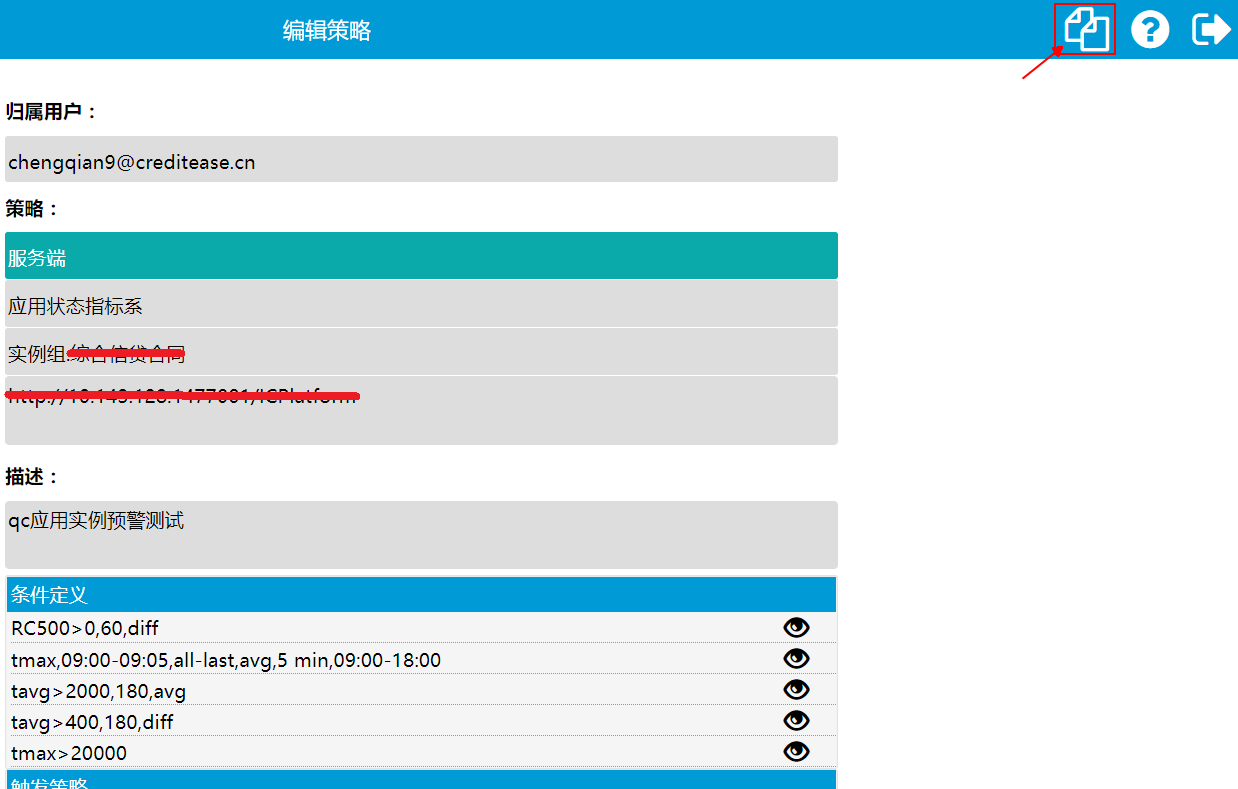
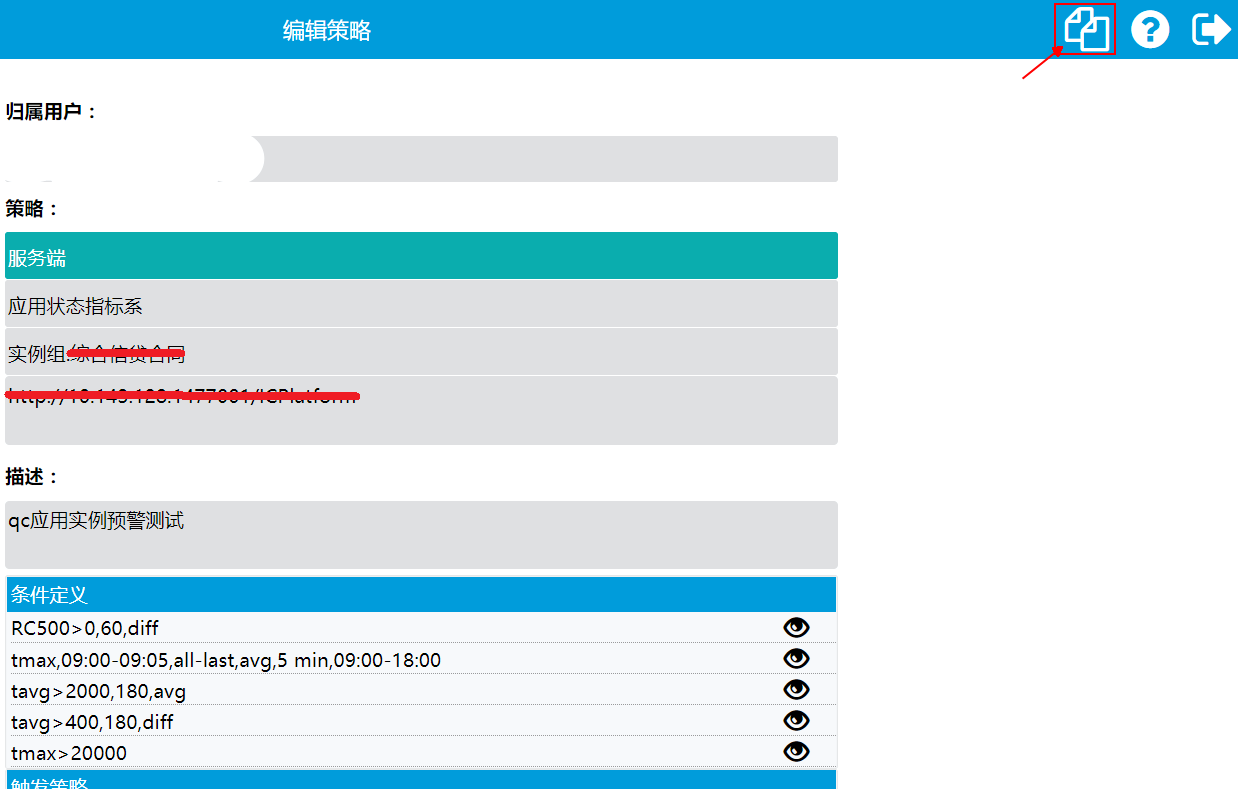
修改图片去除敏感信息

Changed region(s): [[0.0, 0.1521, 0.2149, 0.2433]]

diff --git a/uavdoc_useroperation/28.html b/uavdoc_useroperation/28.html
@@ -1908,7 +1908,7 @@
 <li>&#x5B9E;&#x4F8B;&#x540D;&amp;&#x7B56;&#x7565;&#x63CF;&#x8FF0;&#xFF1A;&#x76F4;&#x63A5;&#x5728;&#x8F93;&#x5165;&#x6846;&#x5185;&#x4FEE;&#x6539;&#x3002;</li>
 <li>&#x89E6;&#x53D1;&#x6761;&#x4EF6;&amp;&#x89E6;&#x53D1;&#x52A8;&#x4F5C;&#xFF1A;&#x70B9;&#x51FB;<img src="assets/28_12.png" alt="">&#x589E;&#x52A0;&#x6761;&#x4EF6;(&#x52A8;&#x4F5C;)&#xFF0C;&#x70B9;&#x51FB;<img src="assets/28_11.png" alt="">&#x4FEE;&#x6539;&#x6761;&#x4EF6;(&#x52A8;&#x4F5C;)&#xFF0C;&#x70B9;&#x51FB;<img src="assets/28_13.png" alt="">&#x5220;&#x9664;&#x6761;&#x4EF6;(&#x52A8;&#x4F5C;)&#x3002;</li>
 </ul>
-<h3 id="&#x4FEE;&#x6539;">&#x4FEE;&#x6539; </h3>
+<h3 id="&#x590D;&#x5236;">&#x590D;&#x5236;</h3>
 <p>&#x7528;&#x6237;&#x70B9;&#x51FB;&#x4EFB;&#x610F;&#x9700;&#x8981;&#x590D;&#x5236;&#x7684;&#x9884;&#x8B66;&#x7B56;&#x7565;<a href="#&#x9884;&#x8B66;&#x7B56;&#x7565;&#x6982;&#x89C8;&#x680F;">&#x9884;&#x8B66;&#x7B56;&#x7565;&#x6982;&#x89C8;</a>&#x8FDB;&#x5165;&#x9884;&#x8B66;&#x4FEE;&#x6539;/&#x67E5;&#x770B;&#x754C;&#x9762;&#x3002;</p>
 <p><img src="assets/28_26.png" alt=""></p>
 <p>&#x70B9;&#x51FB;&#x53F3;&#x4E0A;&#x89D2;&#x590D;&#x5236;&#x6309;&#x94AE;&#xFF0C;&#x8FDB;&#x5165;&#x7F16;&#x8F91;&#x590D;&#x5236;&#x7B56;&#x7565;&#x9875;&#x9762;&#xFF0C;&#x586B;&#x5199;&#x65B0;&#x7B56;&#x7565;&#x7684;&#x5E94;&#x7528;&#x5B9E;&#x4F8B;&#x7EC4;&#x540D;&#x4E0E;&#x5E94;&#x7528;&#x5B9E;&#x4F8B;&#x540D;&#xFF0C;&#x4FEE;&#x6539;&#x9700;&#x8981;&#x8C03;&#x6574;&#x7684;&#x6761;&#x4EF6;&#x5B9A;&#x4E49;&#x4E0E;&#x89E6;&#x53D1;&#x7B56;&#x7565;&#xFF0C;&#x70B9;&#x51FB;&#x4FDD;&#x5B58;&#xFF0C;&#x5373;&#x53EF;&#x521B;&#x5EFA;&#x4E00;&#x6761;&#x590D;&#x5236;&#x7684;&#x65B0;&#x9884;&#x8B66;&#x7B56;&#x7565;&#x3002;</p>
@@ -1958,7 +1958,7 @@
     <script>
         var gitbook = gitbook || [];
         gitbook.push(function() {
-            gitbook.page.hasChanged({"page":{"title":"5.报警","level":"1.5.5","depth":2,"next":{"title":"5.1 预警策略设置","level":"1.5.5.1","depth":3,"anchor":"#预警策略设置","path":"28.md","ref":"28.md#预警策略设置","articles":[{"title":"5.1.1 列表视图","level":"1.5.5.1.1","depth":4,"anchor":"#预警策略列表视图","path":"28.md","ref":"28.md#预警策略列表视图","articles":[]},{"title":"5.1.2 创建","level":"1.5.5.1.2","depth":4,"anchor":"#创建","path":"28.md","ref":"28.md#创建","articles":[{"title":"流式预警条件","level":"1.5.5.1.2.1","depth":5,"anchor":"#流式预警条件","path":"28.md","ref":"28.md#流式预警条件","articles":[]},{"title":"环比预警条件","level":"1.5.5.1.2.2","depth":5,"anchor":"#环比预警条件","path":"28.md","ref":"28.md#环比预警条件","articles":[]},{"title":"同比预警条件","level":"1.5.5.1.2.3","depth":5,"anchor":"#同比预警条件","path":"28.md","ref":"28.md#同比预警条件","articles":[]}]},{"title":"5.1.3 查看","level":"1.5.5.1.3","depth":4,"anchor":"#查看","path":"28.md","ref":"28.md#查看","articles":[]},{"title":"5.1.4 修改","level":"1.5.5.1.4","depth":4,"anchor":"#修改","path":"28.md","ref":"28.md#修改","articles":[]},{"title":"5.1.5 复制","level":"1.5.5.1.5","depth":4,"anchor":"#复制","path":"28.md","ref":"28.md#复制","articles":[]},{"title":"5.1.6 删除","level":"1.5.5.1.6","depth":4,"anchor":"#删除","path":"28.md","ref":"28.md#删除","articles":[]}]},"previous":{"title":"4.2 应用组服务流","level":"1.5.4.2","depth":3,"path":"25.md","ref":"25.md","articles":[]},"dir":"ltr"},"config":{"gitbook":"*","theme":"default","variables":{},"plugins":["-sharing"],"pluginsConfig":{"highlight":{},"search":{},"lunr":{"maxIndexSize":1000000,"ignoreSpecialCharacters":false},"fontsettings":{"theme":"white","family":"sans","size":2},"theme-default":{"styles":{"website":"styles/website.css","pdf":"styles/pdf.css","epub":"styles/epub.css","mobi":"styles/mobi.css","ebook":"styles/ebook.css","print":"styles/print.css"},"showLevel":false}},"structure":{"langs":"LANGS.md","readme":"README.md","glossary":"GLOSSARY.md","summary":"SUMMARY.md"},"pdf":{"pageNumbers":true,"fontSize":12,"fontFamily":"Arial","paperSize":"a4","chapterMark":"pagebreak","pageBreaksBefore":"/","margin":{"right":62,"left":62,"top":56,"bottom":56}},"styles":{"website":"styles/website.css","pdf":"styles/pdf.css","epub":"styles/epub.css","mobi":"styles/mobi.css","ebook":"styles/ebook.css","print":"styles/print.css"}},"file":{"path":"28.md","mtime":"2018-05-11T08:43:45.844Z","type":"markdown"},"gitbook":{"version":"3.2.3","time":"2018-05-11T08:57:35.679Z"},"basePath":".","book":{"language":""}});
+            gitbook.page.hasChanged({"page":{"title":"5.报警","level":"1.5.5","depth":2,"next":{"title":"5.1 预警策略设置","level":"1.5.5.1","depth":3,"anchor":"#预警策略设置","path":"28.md","ref":"28.md#预警策略设置","articles":[{"title":"5.1.1 列表视图","level":"1.5.5.1.1","depth":4,"anchor":"#预警策略列表视图","path":"28.md","ref":"28.md#预警策略列表视图","articles":[]},{"title":"5.1.2 创建","level":"1.5.5.1.2","depth":4,"anchor":"#创建","path":"28.md","ref":"28.md#创建","articles":[{"title":"流式预警条件","level":"1.5.5.1.2.1","depth":5,"anchor":"#流式预警条件","path":"28.md","ref":"28.md#流式预警条件","articles":[]},{"title":"环比预警条件","level":"1.5.5.1.2.2","depth":5,"anchor":"#环比预警条件","path":"28.md","ref":"28.md#环比预警条件","articles":[]},{"title":"同比预警条件","level":"1.5.5.1.2.3","depth":5,"anchor":"#同比预警条件","path":"28.md","ref":"28.md#同比预警条件","articles":[]}]},{"title":"5.1.3 查看","level":"1.5.5.1.3","depth":4,"anchor":"#查看","path":"28.md","ref":"28.md#查看","articles":[]},{"title":"5.1.4 修改","level":"1.5.5.1.4","depth":4,"anchor":"#修改","path":"28.md","ref":"28.md#修改","articles":[]},{"title":"5.1.5 复制","level":"1.5.5.1.5","depth":4,"anchor":"#复制","path":"28.md","ref":"28.md#复制","articles":[]},{"title":"5.1.6 删除","level":"1.5.5.1.6","depth":4,"anchor":"#删除","path":"28.md","ref":"28.md#删除","articles":[]}]},"previous":{"title":"4.2 应用组服务流","level":"1.5.4.2","depth":3,"path":"25.md","ref":"25.md","articles":[]},"dir":"ltr"},"config":{"gitbook":"*","theme":"default","variables":{},"plugins":["-sharing"],"pluginsConfig":{"highlight":{},"search":{},"lunr":{"maxIndexSize":1000000,"ignoreSpecialCharacters":false},"fontsettings":{"theme":"white","family":"sans","size":2},"theme-default":{"styles":{"website":"styles/website.css","pdf":"styles/pdf.css","epub":"styles/epub.css","mobi":"styles/mobi.css","ebook":"styles/ebook.css","print":"styles/print.css"},"showLevel":false}},"structure":{"langs":"LANGS.md","readme":"README.md","glossary":"GLOSSARY.md","summary":"SUMMARY.md"},"pdf":{"pageNumbers":true,"fontSize":12,"fontFamily":"Arial","paperSize":"a4","chapterMark":"pagebreak","pageBreaksBefore":"/","margin":{"right":62,"left":62,"top":56,"bottom":56}},"styles":{"website":"styles/website.css","pdf":"styles/pdf.css","epub":"styles/epub.css","mobi":"styles/mobi.css","ebook":"styles/ebook.css","print":"styles/print.css"}},"file":{"path":"28.md","mtime":"2018-05-11T09:21:11.905Z","type":"markdown"},"gitbook":{"version":"3.2.3","time":"2018-05-11T09:25:22.980Z"},"basePath":".","book":{"language":""}});
         });
     </script>
 </div>
